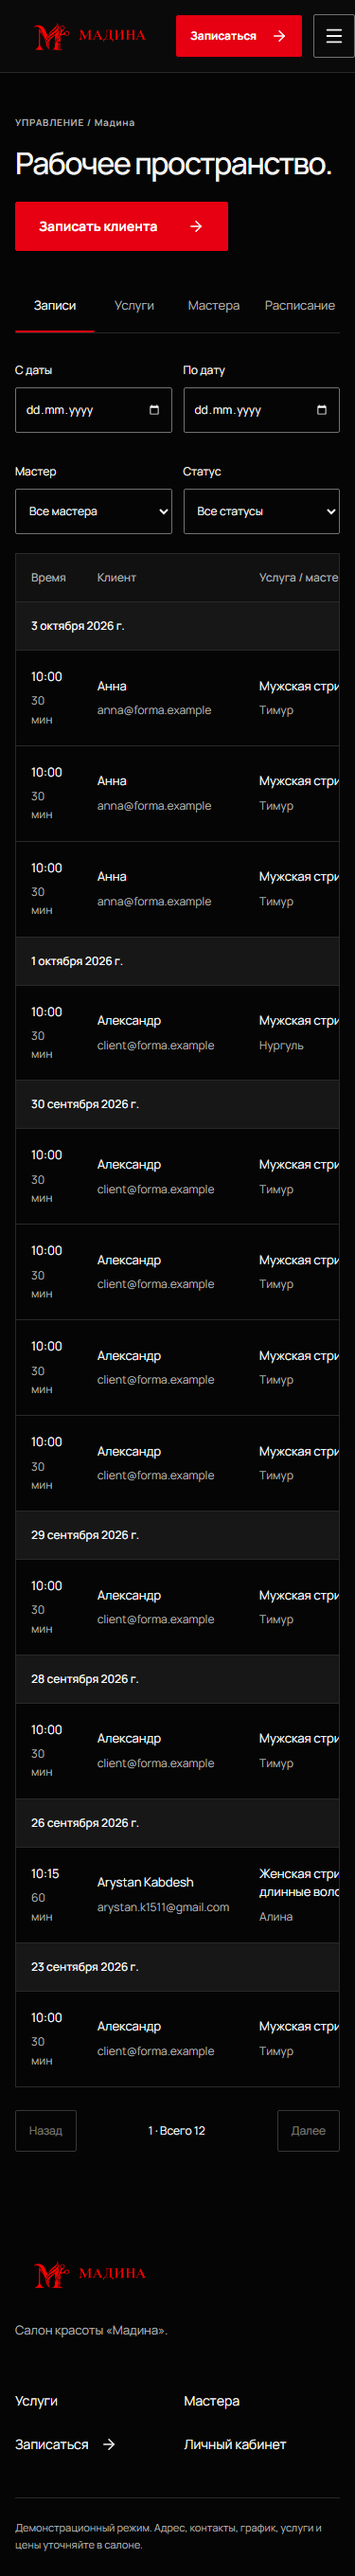
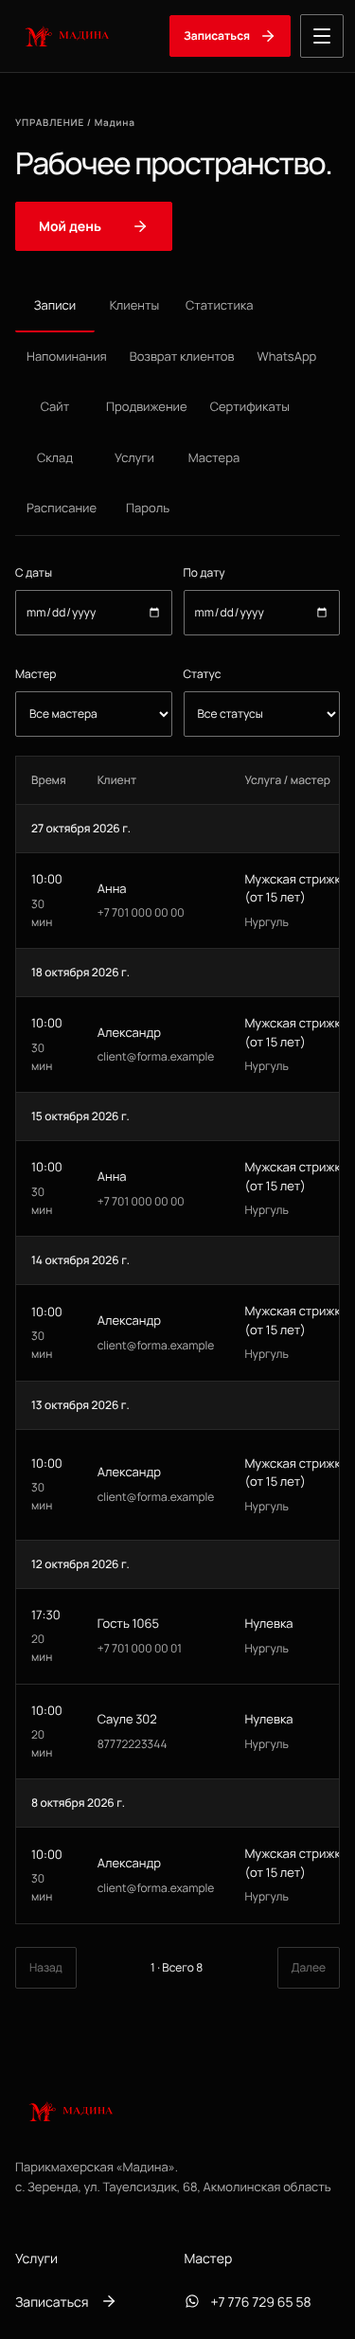
README for the current site; fresh screenshots
The README now describes the salon's live site as it is today: online
booking straight to WhatsApp, family booking, «Мой день» with closing
time and push, the owner's admin, Telegram notifications, the stack and
how double booking is prevented, local setup, checks and the production
variables. Screenshots are retaken on the demo data (home, booking,
admin, plus a phone hero and «Мой день»); the old client-account
screenshots are gone with the feature.

Claude-Session: https://claude.ai/code/session_011HYBVgqYkTr5vNFi5S91Mk

diff --git a/README.md b/README.md
@@ -1,270 +1,135 @@
-# Мадина
+# Мадина — парикмахерская в Зеренде
 
-Владелец и сопровождающий проекта: **[Arystan Kabdesh](https://github.com/arystank1511-blip)**.
-«Мадина» — название салона; FORMA — внутреннее имя приложения и пакетов.
-История вкладов и ссылки на использованные технологии сохраняются в репозитории.
+Сайт с онлайн-записью и рабочий кабинет для небольшой парикмахерской: клиенты записываются сами, мастер ведёт день с телефона, владелец видит выручку и клиентов.
 
-Онлайн-запись для салона «Мадина»: **React + NestJS + PostgreSQL + Prisma**. Русский интерфейс, запись гостей через WhatsApp, уведомления в Telegram и административное управление. Пересекающиеся посещения одного мастера запрещены самой PostgreSQL.
+**🌐 [madina-salon.vercel.app](https://madina-salon.vercel.app)** · с. Зеренда, ул. Тауелсиздик, 68 · Пн–Пт 10:00–18:00, Сб 10:00–15:00, Вс — выходной
 
-Сайт: **https://madina-salon.vercel.app** (старый адрес forma-salon-booking.vercel.app перенаправляется). Превью ссылки в мессенджерах — `apps/web/public/og-image.jpg`, теги в `apps/web/index.html`. Vercel-проект называется **madina_beauty** (бывший forma-salon-booking); он обслуживает frontend и API; данные сохраняются в отдельной Neon PostgreSQL. Настройка и обновление описаны в [VERCEL.md](docs/VERCEL.md).
+Автор и сопровождающий: **[Arystan Kabdesh](https://github.com/arystank1511-blip)**.
 
-![Главная страница](docs/screenshots/home-1440.png)
+![Главная страница](docs/screenshots/hero-1440.png)
 
-## Возможности
+<table>
+  <tr>
+    <td width="33%"><img src="docs/screenshots/hero-375.png" alt="Сайт на телефоне"></td>
+    <td width="33%"><img src="docs/screenshots/master-375.png" alt="«Мой день» — экран мастера"></td>
+    <td width="33%"><img src="docs/screenshots/booking-375.png" alt="Онлайн-запись на телефоне"></td>
+  </tr>
+  <tr>
+    <td align="center">Сайт на телефоне</td>
+    <td align="center">«Мой день» — экран мастера</td>
+    <td align="center">Онлайн-запись</td>
+  </tr>
+</table>
 
-- Услуга → мастер → дата и время → WhatsApp. Клиентам не нужен аккаунт: последняя кнопка открывает чат `+7 776 729 6558` с готовым текстом заявки. Если для услуги один мастер, шаг выбора мастера пропускается.
-- Каждая заявка дублируется в Telegram-бот салона (см. «Telegram-уведомления»).
-- Администратор меняет цены прямо в таблице «Услуги» — поле цены и кнопка «Сохранить» в каждой строке.
-- Длительность и буфер, рабочие часы каждого мастера, регулярные перерывы и отсутствия.
-- Неизменяемые снимки цены и длительности в записях.
-- Администратор: услуги, мастера, наборы услуг, расписание, отсутствия, создание/отмена/завершение посещений, фильтры и страницы списков.
-- HttpOnly-сессии с SHA-256 токенов в БД, scrypt паролей, серверные роли, CSRF, лимит попыток входа.
-- Защита конкурентного бронирования между экземплярами сервера: блокировки PostgreSQL + GiST EXCLUDE.
-- Swagger, SQL-миграции, повторяемый demo seed, unit/integration/Playwright тесты, GitHub Actions.
+## Что умеет
 
-## Быстрый запуск Docker
+### Для клиентов
 
-Нужен Docker Engine с Compose v2. Из корня репозитория:
+- **Запись за минуту без регистрации.** Услуга → дата → свободное время → имя и телефон. После «Записаться» сразу открывается WhatsApp салона с готовым сообщением, время придерживается для клиента на 3 часа.
+- **Мужской и женский зал**, 29 услуг с ценами «от», длительностью и описанием.
+- **Запись всей семьёй** одной заявкой: «+ Добавить человека», и визиты встают подряд.
+- **Статус «Открыто до 18:00» / «Закрыто · откроемся в понедельник в 10:00»** считается по реальному расписанию.
+- **Личная ссылка на запись**: посмотреть, перенести или отменить без звонка (не позже чем за 2 часа). Ссылка подписана HMAC, чужую не подобрать.
+- **Лист ожидания**: если день занят, клиент оставляет телефон, и мастер узнаёт, когда время освободится.
+- **Цена по фото**: кнопка отправляет фото желаемой стрижки в WhatsApp.
+- **Подарочные сертификаты** со своей страницей для печати и кодом.
+- **Отзывы и рейтинг** мастера; после визита клиент ставит оценку: 4–5 звёзд ведут в 2ГИС, 1–3 приходят только владельцу.
+- **Казахская версия** («Қаз / Рус»), разметка schema.org для Google, `sitemap.xml`, превью ссылки для мессенджеров.
+
+### Для мастера — «Мой день» (`/master`)
+
+Экран для телефона, ставится на главный экран как приложение.
+
+- Новые заявки с сайта сверху: **«Подтвердить»** или **«Отказать»**.
+- День по порядку: записи, перерыв, свободное время. **«+ Записать»** — для тех, кто записался по телефону или пришёл без записи.
+- **«🚫 Закрыть время»** — закрыть любой отрезок дня, чтобы сайт его не предлагал; **«Открыть»** — вернуть.
+- У записи: «Позвонить», «WhatsApp», заметка о клиенте, **«Напомнить»** с готовым текстом.
+- После визита: **«₸ Оплата»** (наличные или Kaspi QR) и «Не пришёл».
+- **Push-уведомления** на телефон (Android и iPhone): новая заявка, клиент через час, утренняя сводка. Кнопка «Проверить» сообщает, дошло ли уведомление именно до этого телефона.
+- Отдельный вход для мастера: только «Мой день», без цен и статистики.
+
+Простая инструкция для мастера с картинками — в PDF, её выдаёт владелец.
+
+### Для владельца — админка (`/admin`)
+
+- **Услуги и цены** прямо в таблице, мастера, расписание по дням, перерывы и отсутствия.
+- **Статистика**: выручка, средний чек, новые клиенты, неявки, наличные/Kaspi, откуда узнали о салоне, график по дням; **расходы и прибыль**; **склад** материалов с напоминанием «заканчивается»; **выгрузка в Excel**.
+- **Клиенты**: карточка по номеру телефона, история визитов, заметки, «только через WhatsApp».
+- **Возврат клиентов**: попросить отзыв, «пора подстричься» через N недель, бонусы постоянным и «Приведи подругу» (выключены, пока их не включить).
+- **Сайт**: акция-баннер, фото работ (загружаются и с телефона), отзывы, сертификаты, плакат и визитки с QR-кодом, готовые тексты для 2ГИС, Instagram и WhatsApp Business.
+- **Уведомления в Telegram** владельцу и мастеру: каждая заявка, отмена и перенос, напоминание за час, утренняя сводка в 09:00, итоги недели по понедельникам.
+- По желанию — автоматические сообщения клиентам через **WhatsApp Business API**.
+
+## Как устроено
+
+|            |                                                                                   |
+| ---------- | --------------------------------------------------------------------------------- |
+| Frontend   | React 19, Vite, TanStack Query, React Router                                      |
+| Backend    | NestJS 11, Prisma 6, class-validator, Swagger                                     |
+| База       | PostgreSQL (Neon): миграции SQL, `btree_gist`                                     |
+| Хостинг    | Vercel: статика + API как serverless-функция, регион `fra1`                       |
+| Расписание | GitHub Actions каждые 10 минут вызывает `/api/v1/cron/reminders`                  |
+| Тесты      | Vitest, Jest + Testing Library, интеграционные на реальной PostgreSQL, Playwright |
+
+- **Двойная запись невозможна на уровне базы**: блокировки PostgreSQL и ограничение GiST `EXCLUDE` по мастеру и времени. Проверено 10 параллельными запросами через два независимых экземпляра API.
+- **Безопасность**: HttpOnly-сессии (в базе хранится SHA-256 токена), пароли scrypt, роли на сервере (администратор, мастер, клиент), CSRF по `Origin` и заголовку, ограничение попыток входа.
+- **Секреты не в коде**: логин администратора задаётся переменными Vercel, ключи VAPID, секрет ссылок и токен WhatsApp создаются в базе.
+- Монорепозиторий pnpm: `apps/web` (сайт), `apps/api` (API, схема и миграции в `apps/api/prisma`), `e2e` (Playwright), `api/index.js` (точка входа Vercel).
+
+Подробнее: [архитектура и ERD](docs/ARCHITECTURE.md), [развёртывание](docs/DEPLOYMENT.md), [Vercel](docs/VERCEL.md), [отчёт проверок](docs/VERIFICATION.md).
+
+## Запустить у себя
+
+Нужны **Node 24**, **pnpm 10.30.3** и **PostgreSQL 16+** (или Docker).
+
+**Docker** — всё сразу на http://localhost:8080:
 
 ```sh
 docker compose up --build -d --wait
 docker compose exec api pnpm db:seed
 ```
 
-Открыть **http://localhost:8080**. Swagger: **http://localhost:8080/api/docs**. Compose сам применяет миграции перед запуском API. Для демонстрации он по умолчанию использует development-режим, локальные cookie и демонстрационные реквизиты БД. Не выставляйте такую конфигурацию в интернет.
-
-Если используете корневой `.env`, установите `APP_ORIGIN=http://localhost:8080` для Compose. Origin должен точно совпадать с адресом в браузере.
+**Без Docker** — сайт на http://localhost:5173, API на :3000:
 
 ```sh
-docker compose logs -f api
-docker compose down
-```
-
-Данные хранятся в volume `forma_postgres`. Не используйте `down -v`, если нужно сохранить записи.
-
-## Локальная разработка без Docker
-
-Проверенный runtime: **Node 24.15.0**, **pnpm 10.30.3**, **PostgreSQL 17**. Допустим Node 22.12–24.x. Версии библиотек и lockfile зафиксированы.
-
-```sh
-corepack enable
-corepack prepare pnpm@10.30.3 --activate
-pnpm install --frozen-lockfile
-```
-
-Создайте отдельные PostgreSQL базы `forma` и `forma_test`; пользователь миграций должен иметь право установить `btree_gist`.
-
-```sh
-cp .env.example apps/api/.env
-# Отредактируйте DATABASE_URL и TEST_DATABASE_URL под свою PostgreSQL.
-pnpm db:generate
-pnpm db:migrate
-pnpm db:seed
+corepack enable && pnpm install --frozen-lockfile
+cp .env.example apps/api/.env   # укажите DATABASE_URL своей PostgreSQL
+pnpm db:generate && pnpm db:migrate
+DEMO_MODE=true pnpm db:seed
 pnpm dev
 ```
 
-Windows PowerShell: `Copy-Item .env.example apps/api/.env`. Открыть **http://localhost:5173**; Vite перенаправляет `/api` на порт 3000. Swagger: **http://localhost:5173/api/docs** (тот же origin для Try it out). `localhost` и `127.0.0.1` являются разными Origin; используйте `localhost` либо измените `APP_ORIGIN`.
-
-API dev-команда сначала компилирует TypeScript, затем запускает Node в watch-режиме по скомпилированным файлам. После правок API выполняйте `pnpm --filter @forma/api build` в другом терминале. Frontend обновляется автоматически через Vite.
-
-## Демо-доступ
-
-| Роль          | Email                  | Пароль           |
-| ------------- | ---------------------- | ---------------- |
-| Администратор | `admin@forma.example`  | `FormaDemo2026!` |
-| Клиент        | `client@forma.example` | `FormaDemo2026!` |
-| Клиент        | `anna@forma.example`   | `FormaDemo2026!` |
-
-Seed разрешён только при `DEMO_MODE=true` и `NODE_ENV!=production`. В production демонстрационные пароли не создаются. Публичная регистрация всегда создаёт CUSTOMER. Повторный seed не обновляет существующие профили, цены или расписания и не удаляет данные. Даты демо рассчитываются от первого запуска seed; он намеренно не переносит уже созданные посещения при следующих запусках.
-
-В публичном каталоге один мастер — **Нургуль**. Миграция `20261007000000_only_nurgul` отключает остальных активных мастеров (их записи сохраняются). Фото мастера: `apps/web/public/images/nurgul.webp`. Миграции применяются автоматически при production-деплое на Vercel. Администратор может изменить их имена, описания, услуги, фотографии и активность во вкладке «Мастера». Нового мастера можно добавить там же; затем во вкладке «Расписание» задайте ему рабочие часы и перерывы. Прежние демо-мастера в существующей облачной базе отключены; в админке они доступны через «Показать архивных», а их записи сохранены.
-
-Логотипы пользователя находятся в `apps/web/public/images/madina-logo-header.svg` и `madina-logo.svg`. Для мастера без фотографии на сайте показывается эмблема салона. Демонстрационные услуги, цены, график, адрес и контакты требуют уточнения перед реальным приёмом клиентов.
-
-## Вход администратора на рабочем сайте
-
-Демо-логин заменяется своим через секретные переменные Vercel (Settings → Environment Variables, Production): `ADMIN_EMAIL` и `ADMIN_PASSWORD` (не короче 10 символов). При следующем production-деплое `prisma/sync-admin.ts` переименует администратора, поставит пароль и завершит его старые сессии. Срабатывает один раз: пока нет пользователя с `ADMIN_EMAIL`. Пароль, сменённый потом во вкладке «Пароль», не перезаписывается. Пароль в репозиторий не попадает.
-
-## «Мой день» — экран мастера
-
-`/master` открывается сразу после входа в админку и рассчитан на телефон.
-
-- Сверху — новые заявки с сайта (жёлтые). Заявка держит время 3 часа: «Подтвердить» закрепляет запись, «Отказать» освобождает время. Неподтверждённая заявка освобождается сама.
-- Ниже — день по порядку: записи, перерыв и свободные получасы. Свободное время показывается, только если туда помещается хотя бы одна услуга.
-- «+ Записать» на свободном времени: имя, телефон (необязательно), услуга — и время сразу закрыто на сайте. Так вносятся записи из WhatsApp, по звонку и «с улицы».
-- У записи с телефоном есть кнопки «Позвонить» и «WhatsApp»; «Отменить запись» освобождает время.
-- «Напомнить» у будущей записи с телефоном открывает WhatsApp клиента с готовым текстом напоминания. После этого у записи видно «✓ Напомнили в 13:05», и в админке тоже. За час до визита у записи загорается «через N мин».
-- «Не пришёл» у начавшейся записи сохраняет пропуск; у следующих записей этого телефона видно «⚠ Уже не приходил(а)». Листать можно на 7 дней назад.
-- Вход сохраняется на 180 дней, чтобы не вводить пароль каждую неделю.
-
-## Вход для мастера и уведомления на телефон
-
-- **Отдельный вход.** Админка → «Пароль» → «Вход для мастера»: email и пароль для Нургуль. Роль `MASTER` открывает только «Мой день»: записи, заявки, оплату, заметки, фото работ. Цены, статистика, клиенты, настройки и `/admin` закрыты, `/admin` перенаправляет в «Мой день». После смены пароля мастер выходит на всех устройствах.
-- **«Мой день» как приложение.** На странице подключается `master.webmanifest`, поэтому «Добавить на главный экран» создаёт иконку «Мой день», которая открывается сразу на `/master`.
-- **Push-уведомления.** Кнопка «🔔 Включить уведомления» в «Мой день» включает их на этом устройстве (Android/Chrome сразу; на iPhone сначала нужно добавить «Мой день» на экран «Домой»). Что приходит:
-  - новая заявка с сайта;
-  - запись через час;
-  - утренняя сводка в 09:00.
-
-  Кнопка «Проверить» отправляет пробное уведомление. Ключи VAPID создаются сами и хранятся в базе (`Setting` `vapid`), в Vercel настраивать ничего не нужно. Service worker (`public/sw.js`) только показывает уведомления и ничего не кэширует.
-
-## Перенос и отмена записи клиентом, лист ожидания
-
-- **Личная ссылка.** После заявки на сайте клиент видит ссылку «Моя запись» (`/v/<id>.<подпись>`). По ней можно посмотреть запись, **перенести** её на другое свободное время или **отменить**, без регистрации. Ссылка подписана HMAC-SHA256: подделать её или подобрать чужую нельзя. Секрет создаётся сам и хранится в базе (`Setting` `visit-link-secret`).
-- **Ссылка в напоминании.** Кнопка «Напомнить» в WhatsApp добавляет строку «Перенести или отменить: …».
-- **Ограничение по времени.** Менять запись онлайн можно не позже чем за 2 часа до визита. Позже ссылка предлагает написать в WhatsApp.
-- **Перенос атомарный.** Новое время проверяется по тем же правилам, что и обычная запись, а старая запись отменяется в той же транзакции. Если новое время уже заняли, ничего не меняется.
-- **Уведомления салону.** Об отмене и переносе салон получает сообщение в Telegram и push.
-- **Лист ожидания.** Если на выбранную дату нет свободного времени, клиент оставляет имя и телефон («Сообщить мне»). Когда на этот день кто-то отменяет или переносит запись, мастер получает уведомление «Освободилось …» со списком ждущих. В «Мой день» появляется блок «Ждут этот день»: кнопка «Предложить» открывает WhatsApp с готовым текстом и ссылкой на запись, а клиент вычёркивается из списка.
-
-## Итоги недели и бонусы постоянным клиентам
-
-- **Итоги недели.** Каждый понедельник в 09:00 в Telegram и на телефон мастера приходит отчёт за прошлую неделю: выручка (и изменение к неделе до этого), визиты и средний чек, новые клиенты, неявки и отмены, популярные услуги, наличные и Kaspi, неотмеченные оплаты, сколько записано на текущую неделю. Отчёт отправляется один раз (метка `Setting` `weekly:<дата>`). Его можно посмотреть и отправить вручную: Админка → «Статистика» → «Итоги недели».
-- **Бонусы.** Админка → «Возврат клиентов» → «Бонусы постоянным клиентам»: включить и задать, например, «каждый 6-й визит — скидка 50%». Визиты считаются по номеру телефона (состоявшиеся, без неявок). Программа показывается на главной странице. В «Мой день» у визита, на который положен подарок, стоит значок 🎁. В личной ссылке клиент видит, какой это у него визит по счёту.
-- **Скидки выключены по умолчанию.** Пока бонусы не включены, а скидка в день рождения равна 0, сайт не пишет о скидках (и автоматическое поздравление по шаблону WhatsApp не отправляется). Включаются в «Возврат клиентов»: «Бонусы постоянным клиентам» и «Настройки» → «Скидка в день рождения».
-
-## Отзывы, подарочные сертификаты, цена по фото
-
-- **Отзывы.** Админка → «Сайт» → «Отзывы на сайте»: имя, оценка и текст (скопируйте лучшие из 2GIS или WhatsApp). На главной появится раздел «Отзывы» с последними 12 и ссылкой «Все отзывы» (та же ссылка, что в «Возврат клиентов»). Пока отзывов нет, раздел скрыт.
-- **Подарочные сертификаты.** На главной есть блок «Подарочный сертификат» с кнопкой заказа в WhatsApp. После оплаты в салоне: Админка → «Сертификаты» → «Оформить» (сумма, кому, от кого, срок 1–12 месяцев). Сертификат получает код из 8 символов (без похожих 0/O и 1/I) и страницу `/gift/<код>`: её можно распечатать (печатается на белом фоне без меню) или отправить ссылкой. Когда сертификатом расплатились, нажмите «Использован». Просроченный сертификат использовать нельзя.
-- **Цена по фото.** Под услугами на главной есть кнопка «Отправить фото»: открывает WhatsApp с готовым текстом, мастер подскажет и назовёт цену.
-
-## Расходы и прибыль, склад, выгрузка в Excel
-
-- **Расходы.** Админка → «Статистика» → «Расходы»: дата, статья (материалы, аренда, коммунальные, зарплата, реклама, другое), сумма и комментарий. В статистике появляются «Расходы» и «Прибыль» (выручка − расходы за тот же период), а в понедельничном отчёте строка «Расходы … · прибыль …».
-- **Склад.** Админка → «Склад»: материалы с остатком и минимумом. «−1» списывает, «+» добавляет приход. Когда остаток впервые доходит до минимума, в Telegram и на телефон приходит «Заканчивается материал». Повторно уведомление придёт только после пополнения выше минимума. Понедельничный отчёт напоминает, что заканчивается.
-- **Выгрузка в Excel.** «Статистика» → «Выгрузка в Excel»: записи и расходы за выбранный период, все клиенты. Файлы CSV с BOM и разделителем «;» открываются в Excel без настройки. Телефоны записаны как «8 7xx…», а текст, похожий на формулу, экранируется. Скачивать может только владелец.
-
-## Telegram-уведомления
-
-Когда клиент нажимает «Записаться через WhatsApp», сайт отправляет заявку (услуга, цена, мастер, время, имя) в Telegram. Вход клиентов отключён: ссылки «Войти» на сайте нет, `/login` остался только для администратора.
-
-1. В Telegram напишите [@BotFather](https://t.me/BotFather) команду `/newbot` и получите токен бота.
-2. Откройте своего бота и нажмите «Start» — без этого Telegram не разрешит боту писать вам.
-3. В Vercel-проекте **madina_beauty** (Settings → Environment Variables) добавьте `TELEGRAM_BOT_TOKEN` и сделайте Redeploy. Имя переменной должно быть именно таким.
-
-ID чатов владельца `5980317055` и мастера Нургуль `6560514860` прописаны по умолчанию (каждый должен один раз нажать «Запустить» в боте). Другого получателя (или несколько через запятую) можно задать переменной `TELEGRAM_CHAT_ID`.
-
-### Сайт: акция, фото работ, поиск в Google
-
-- **Акция.** Вкладка админки «Сайт»: текст, «Показывать на сайте» и необязательная дата «по». Красная полоса появляется вверху главной и страницы записи, а после этой даты пропадает сама.
-- **Фото работ.** Фото загружаются там же или кнопкой «📷 Добавить фото работы» внизу «Мой день», прямо с камеры телефона. Перед загрузкой браузер уменьшает фото до 1600 px (JPEG, обычно 100–200 КБ). Фото хранятся в базе (таблица `Photo`), потому что у сайта на Vercel нет диска. Сервер принимает только настоящие JPEG, PNG и WebP (проверяет сигнатуру файла). Раздел «Наши работы» на главной появляется, когда есть хотя бы одно фото. Подпись можно поправить, фото можно удалить.
-- **Поиск.** В `index.html` есть разметка schema.org `HairSalon` (адрес, часы, телефон, оплата, запись), а также `robots.txt` (служебные страницы закрыты) и `sitemap.xml`. Чтобы Google быстрее нашёл сайт, добавьте его в [Google Search Console](https://search.google.com/search-console) и отправьте `https://madina-salon.vercel.app/sitemap.xml`. В Яндексе то же самое делается через Яндекс.Вебмастер.
-
-### Казахская версия
-
-- **Переключатель «Қаз / Рус».** На компьютере он в шапке, на телефоне — в меню. Выбор запоминается в браузере. Ссылка `?lang=kk` сразу открывает сайт на казахском.
-- **Что переводится.** Публичные страницы: главная, услуги, запись, подвал, 404, а также все 29 услуг прайса с описаниями. Цены на казахском пишутся как «2 500 ₸ бастап», даты по-казахски. Админка, «Мой день» и сообщения салону (WhatsApp, Telegram) остаются на русском.
-- **Как устроен перевод.** Тексты лежат в `apps/web/src/i18n-kk.ts`, ключ — русский оригинал. Если перевода нет, показывается русский текст. Тест `apps/web/test/i18n.test.ts` проверяет, что у каждого `t('…')` на публичных страницах и у каждой услуги прайса есть перевод. Новую услугу из админки без перевода сайт покажет по-русски.
-- **Проверка носителем.** Тексты переведены машинно. Перед запуском желательно, чтобы их прочитал носитель казахского языка: правки вносятся прямо в `i18n-kk.ts`.
-
-### Клиенты: карточка, заметки, дни рождения, «только через WhatsApp»
-
-- **Вкладка «Клиенты».** Все, кто записывался, сгруппированы по номеру телефона (последние 10 цифр, поэтому «8 777…» и «+7 777…» считаются одним клиентом). Видно визиты, последний и следующий визит, сколько клиент потратил, неявки, день рождения и заметку. Есть поиск по имени и номеру.
-- **Карточка клиента** (клик по строке): история визитов, заметка (краска, пожелания, аллергии), день рождения, галочка «Только через WhatsApp».
-- **«Мой день».** У записи видна заметка 📝 и «🎂 день рождения!», если он сегодня. Кнопка «📝 Заметка» позволяет Нургуль дописать заметку с телефона.
-- **«Только через WhatsApp».** Сайт не примет от такого клиента заявку: время не занимается, клиент видит просьбу написать в WhatsApp, а в Telegram приходит уведомление о попытке.
-- **Дни рождения.** На сайте при записи можно по желанию указать день и месяц. Утренняя сводка в Telegram сообщает, у кого сегодня день рождения. Во вкладке «Возврат клиентов» есть кнопка «Поздравить» с текстом со скидкой (размер скидки задаётся там же, по умолчанию 10%). С шаблоном `birthday` во вкладке «WhatsApp» поздравление уходит само, раз в год.
-
-### Оплата и статистика
-
-- **Оплата.** У начавшегося визита (в «Мой день» и во вкладке «Записи») есть кнопка «₸ Оплата»: сумма (по умолчанию цена по прайсу, но цены «от», поэтому её можно изменить) и «Наличные» или «Kaspi QR». Визит становится «Завершена». Отметку можно исправить.
-- **Вкладка «Статистика».** Период: сегодня, 7 дней, этот месяц, прошлый месяц или свои даты. Показывает выручку (оплаченная сумма, а если оплату не отметили, то цена по прайсу, и сколько таких визитов), число визитов и средний чек, клиентов и сколько из них новых (первый визит в этом периоде), неявки (% и отмены), наличные и Kaspi отдельно, график выручки по дням и услуги по выручке.
-
-### Возврат клиентов: отзывы и «пора подстричься»
-
-Вкладка админки «Возврат клиентов»:
-
-- **Попросить отзыв.** Визиты, которые закончились больше 2 часов, но меньше недели назад. Одного клиента (по номеру) просим не чаще раза в 3 месяца. Кнопка открывает WhatsApp с готовым текстом и ссылкой на отзывы (по умолчанию карточка 2GIS, её можно сменить в настройках вкладки).
-- **Пора подстричься.** Клиенты, у которых последний визит был N недель назад (по умолчанию 5, от 2 до 26), новой записи нет и после того визита их ещё не приглашали. Текст содержит ссылку на запись.
-- После нажатия клиент уходит из списка: отметки `reviewRequestedAt` и `invitedAt` стоят на записи.
-- Если во вкладке «WhatsApp» заданы шаблоны `review_request` и `come_back` (по желанию), то же самое уходит автоматически через WhatsApp Business API при каждом запуске расписания, с 08:00 до 19:00, по одному разу.
-
-### Утренняя сводка и автозавершение
-
-- В 09:00 (Алматы) в Telegram один раз в день приходит «Доброе утро! Сегодня, 12 октября»: все записи дня по времени, с телефоном. Заявки, которые ещё ждут подтверждения, помечены отдельно.
-- Подтверждённые визиты прошлых дней утром сами становятся «Завершена». «Не пришёл» на них можно поставить ещё 7 дней, в админке и в «Мой день».
-- Заявка с сайта, которую не подтвердили за 3 часа, в админке показана как «Истекла, не подтвердили». Время у такой заявки уже свободно. Подтвердить заявку можно и во вкладке «Записи».
-- На сайте телефон при записи обязателен: без него не работают напоминания.
-
-### Напоминание за час до визита
-
-За час до каждой записи (подтверждённой или ещё ждущей ответа) в Telegram приходит «Через 40 мин: 14:00»: клиент, телефон, услуга и ссылка «Напомнить клиенту в WhatsApp». Ссылка открывает WhatsApp клиента с готовым текстом, остаётся нажать «Отправить». Каждое уведомление приходит один раз.
-
-- Расписание — GitHub Actions `.github/workflows/reminders.yml`: каждые 10 минут с 08:00 до 18:59 по Алматы вызывает `GET /api/v1/cron/reminders`. Настраивать ничего не нужно. GitHub иногда запускает расписание с опозданием на несколько минут, поэтому проверка идёт ещё и при каждом открытии вкладки «Напоминания» в админке.
-- Вкладка «Напоминания» в админке: записи на ближайшие 24 часа, кому уже напомнили (и когда), отправлено ли уведомление в Telegram, кнопка «Напомнить». Во вкладке «Записи» тоже есть «Напомнить» и «Не пришёл».
-- **Автоматически клиенту (WhatsApp Business API).** Во вкладке админки «WhatsApp» вводятся Phone number ID, постоянный токен и имя одобренного шаблона Meta (категория Utility, переменные `{{1}}` имя, `{{2}}` «сегодня в 14:00», `{{3}}` услуга). Пошаговая инструкция и кнопка «Отправить пробное сообщение» находятся там же. Когда галочка включена, подтверждённые клиенты с телефоном получают напоминание сами, по одному разу. Отметка «WhatsApp: отправлено автоматически» видна во вкладке «Напоминания», а Telegram пишет, что клиенту уже напомнили. Если Meta отказала, причина видна там же, следующая проверка пробует снова, а ссылка «Напомнить клиенту» остаётся запасным вариантом. Токен хранится в таблице `Setting` и в браузер не возвращается.
-- Необязательная защита: задайте одинаковый секрет `CRON_SECRET` в Vercel (Environment Variables) и в GitHub (Settings → Secrets and variables → Actions). Без секрета вызов безопасен: он отправляет только то, что уже пора, и не больше одного раза. Другой адрес сайта для расписания задаётся переменной GitHub `SITE_URL`.
-- В публичном репозитории GitHub отключает расписание после 60 дней без коммитов. Тогда включите его снова: Actions → reminders → «Enable workflow».
-
-Без токена сайт работает как раньше, просто без уведомлений. Номер WhatsApp задаётся `SALON_WHATSAPP` (только цифры, по умолчанию `77767296558`).
-
-## Настройки
-
-Файл `.env.example` содержит полный набор. Название в API задаёт `SALON_NAME` (по умолчанию «Мадина»); логотип и заголовок страницы находятся в frontend. `SALON_CURRENCY`, `SALON_TIMEZONE`, `SALON_ADDRESS`, `SALON_CONTACT`, `SALON_HOURS` выдаются frontend через `/api/v1/config`. По умолчанию KZT и Asia/Almaty. Цены хранятся целыми числами в минимальных единицах валюты.
-
-`APP_ORIGIN` обязателен для CSRF и должен быть точным origin без завершающего `/`. Production: единый HTTPS origin, frontend на `/`, API на `/api`. `NODE_ENV=production` включает Secure cookie. Без HTTPS такие cookie браузер не отправит.
+Демо-данные создаются только при `DEMO_MODE=true` и не в production. Вход в демо: `admin@forma.example` / `FormaDemo2026!`. На рабочем сайте этого логина нет.
 
 ## Проверки
 
 ```sh
-pnpm build
-pnpm typecheck
-pnpm lint
-pnpm exec prettier --check .
-pnpm test
+pnpm build && pnpm typecheck && pnpm lint && pnpm exec prettier --check .
+pnpm test                 # unit-тесты API и сайта
+pnpm test:integration     # нужна база с именем forma_test (TEST_DATABASE_URL)
+pnpm test:e2e             # Playwright на запущенном демо-сайте
 ```
 
-`pnpm test` запускает unit-тесты API и frontend: правила доступности, обработку ответов сервера и отмену запросов. Все проверки запускаются также для pull request; интеграционные и браузерные сценарии описаны ниже.
+GitHub Actions прогоняет всё это на каждый pull request. После слияния в `main` Vercel сам публикует сайт и применяет миграции.
 
-Интеграционные тесты работают **только** с URL, чей database pathname заканчивается на `/forma_test`. Тесты создают уникальные фикстуры, не очищают чужую БД и не используют SQLite или моки.
+## Настройка рабочего сайта
 
-```sh
-# Bash: укажите собственные тестовые реквизиты.
-export DATABASE_URL=postgresql://forma:forma_dev@localhost:5432/forma_test
-export TEST_DATABASE_URL=$DATABASE_URL
-pnpm db:migrate
-pnpm --filter @forma/api build
-pnpm test:integration
-```
+Переменные в Vercel (Settings → Environment Variables, Production):
 
-В PowerShell: `$env:DATABASE_URL='postgresql://.../forma_test'; $env:TEST_DATABASE_URL=$env:DATABASE_URL`.
+| Переменная                      | Зачем                                                                    |
+| ------------------------------- | ------------------------------------------------------------------------ |
+| `DATABASE_URL`                  | PostgreSQL (Neon подключает сам)                                         |
+| `ADMIN_EMAIL`, `ADMIN_PASSWORD` | логин владельца; при деплое заменяет демо-логин один раз                 |
+| `TELEGRAM_BOT_TOKEN`            | уведомления в Telegram; получатели — `TELEGRAM_CHAT_ID` через запятую    |
+| `CRON_SECRET`                   | необязательно: тот же секрет в GitHub Actions защищает вызов напоминаний |
+| `SALON_*`, `PUBLIC_HOST`        | название, адрес, часы, WhatsApp, домен — см. `.env.example`              |
 
-Тесты отправляют запросы через два независимо созданных Nest-приложения и два Prisma connection pool с общей PostgreSQL. Проверяются один и разные начала, 10 параллельных запросов, разные мастера, прямое нарушение EXCLUDE, роли, CSRF, чужие записи, снимки цены и конфликтующие изменения расписания.
-
-Playwright требует запущенный продукт с demo seed (в CI это изолированная `forma_test`). Он создаёт и отменяет демо-запись, временно меняет цену демо-услуги и возвращает её обратно. Не запускайте его на рабочем салоне.
-
-```sh
-pnpm exec playwright install chromium
-pnpm test:e2e
-```
-
-Переменная `E2E_BASE_URL` меняет адрес, по умолчанию `http://localhost:5173`. Отчёт: `playwright-report/index.html`. Скриншоты: `docs/screenshots/`.
+Мастеру вход создаётся в админке: «Пароль» → «Вход для мастера». Каждый получатель Telegram должен один раз нажать «Запустить» в боте салона.
 
 ## API
 
-- Swagger UI: `/api/docs`, OpenAPI JSON: `/api/openapi.json`.
-- Префикс маршрутов: `/api/v1`.
-- Liveness: `/api/v1/health`; readiness: `/api/v1/ready`.
-- Сессия: HttpOnly cookie `forma_session`, действительна 7 дней; logout отзывает её.
-- Изменяющие запросы: `Origin: <APP_ORIGIN>` и `X-CSRF-Protection: 1`. CORS отключён. Swagger автоматически добавляет X-CSRF-Protection; открывайте его через тот же origin, что и сайт. Для curl передайте оба заголовка вручную.
+Swagger: `/api/docs`, OpenAPI: `/api/openapi.json`, префикс `/api/v1`, проверка: `/api/v1/ready`. Изменяющие запросы требуют `Origin` сайта и заголовок `X-CSRF-Protection: 1`. Занятое время — HTTP 409 `SLOT_UNAVAILABLE`.
 
-```sh
-curl -c cookies.txt http://localhost:3000/api/v1/auth/login \
-  -H 'Content-Type: application/json' \
-  -H 'Origin: http://localhost:5173' \
-  -H 'X-CSRF-Protection: 1' \
-  -d '{"email":"client@forma.example","password":"FormaDemo2026!"}'
-```
+---
 
-Ошибка конфликта: HTTP 409, `{"code":"SLOT_UNAVAILABLE","message":"Это время уже занято. Выберите другой слот."}`. Другие ошибки не маскируются под конфликт. Клиент сбрасывает только время, сохраняет услугу/мастера/дату и обновляет доступность.
-
-## Архитектура и ограничения
-
-Подробности: [архитектура и ERD](docs/ARCHITECTURE.md), [развёртывание](docs/DEPLOYMENT.md), [источники](docs/REFERENCES.md), [техническое задание](docs/specification.txt), [отчёт проверок](docs/VERIFICATION.md).
-
-Это один салон, одна услуга и один мастер на посещение. Нет оплаты, уведомлений, мультифилиальности, кабинета мастера, аналитики и переноса отдельной командой. Перенос: отмена и новая запись. Мастер занят всю процедуру и буфер, в том числе во время ожидания окрашивания.
-
-Ограничитель входа/регистрации хранится в памяти экземпляра (20 попыток/минуту/IP); при нескольких API-инстансах нужен общий rate limit на доверенном reverse proxy. В Compose API доверяет одному hop, а nginx перезаписывает входящий `X-Forwarded-For` реальным адресом клиента. Локально доверие к прокси выключено. Бронирование от этого ограничения не зависит и защищено общей БД.
-
-Фотографии команды синтетические, фото салона демонстрационное. Контакты `.example` не используются для реальной связи.
+Сайт сделан для семейной парикмахерской «Мадина». Название FORMA в пакетах и коде — внутреннее имя проекта.
